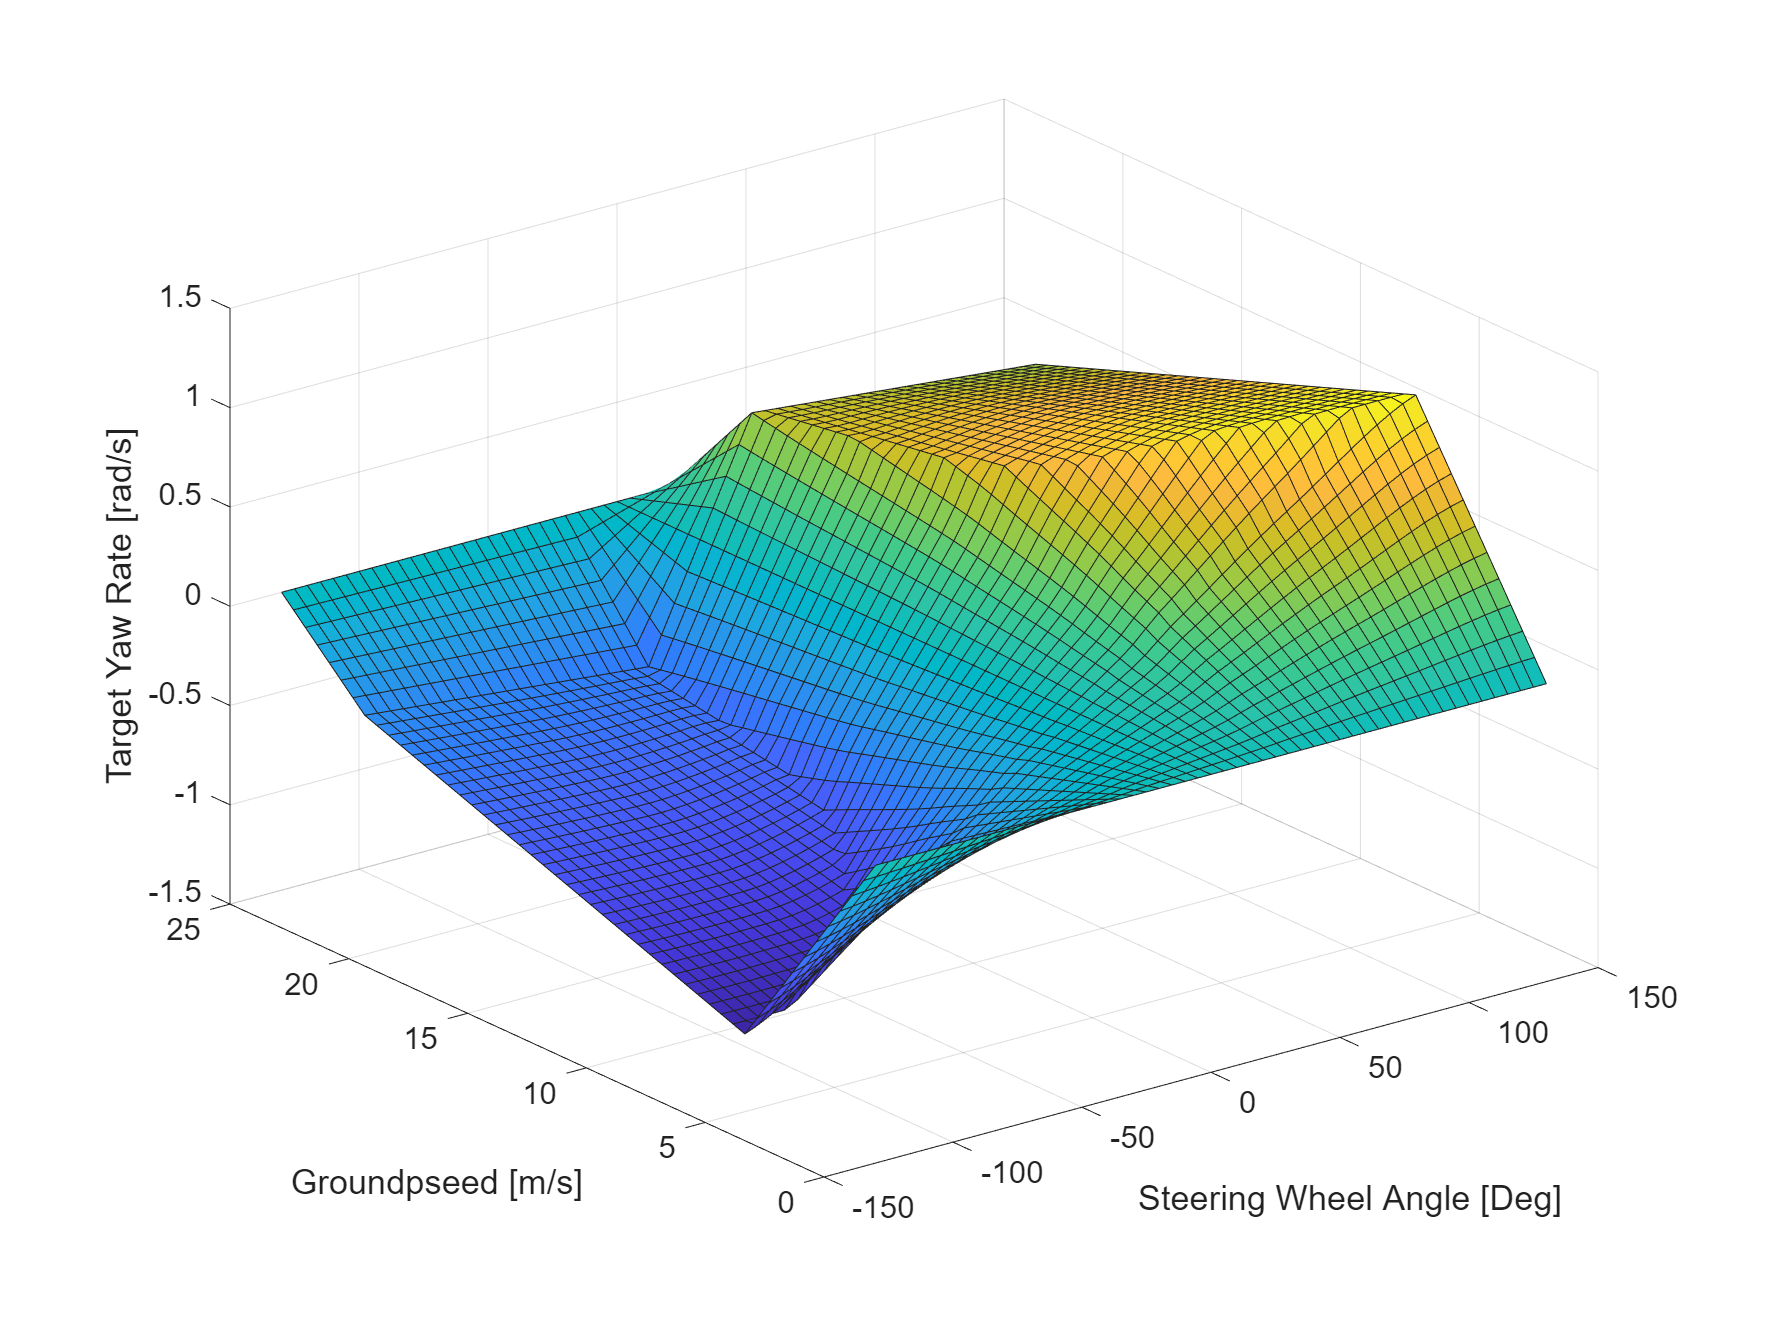
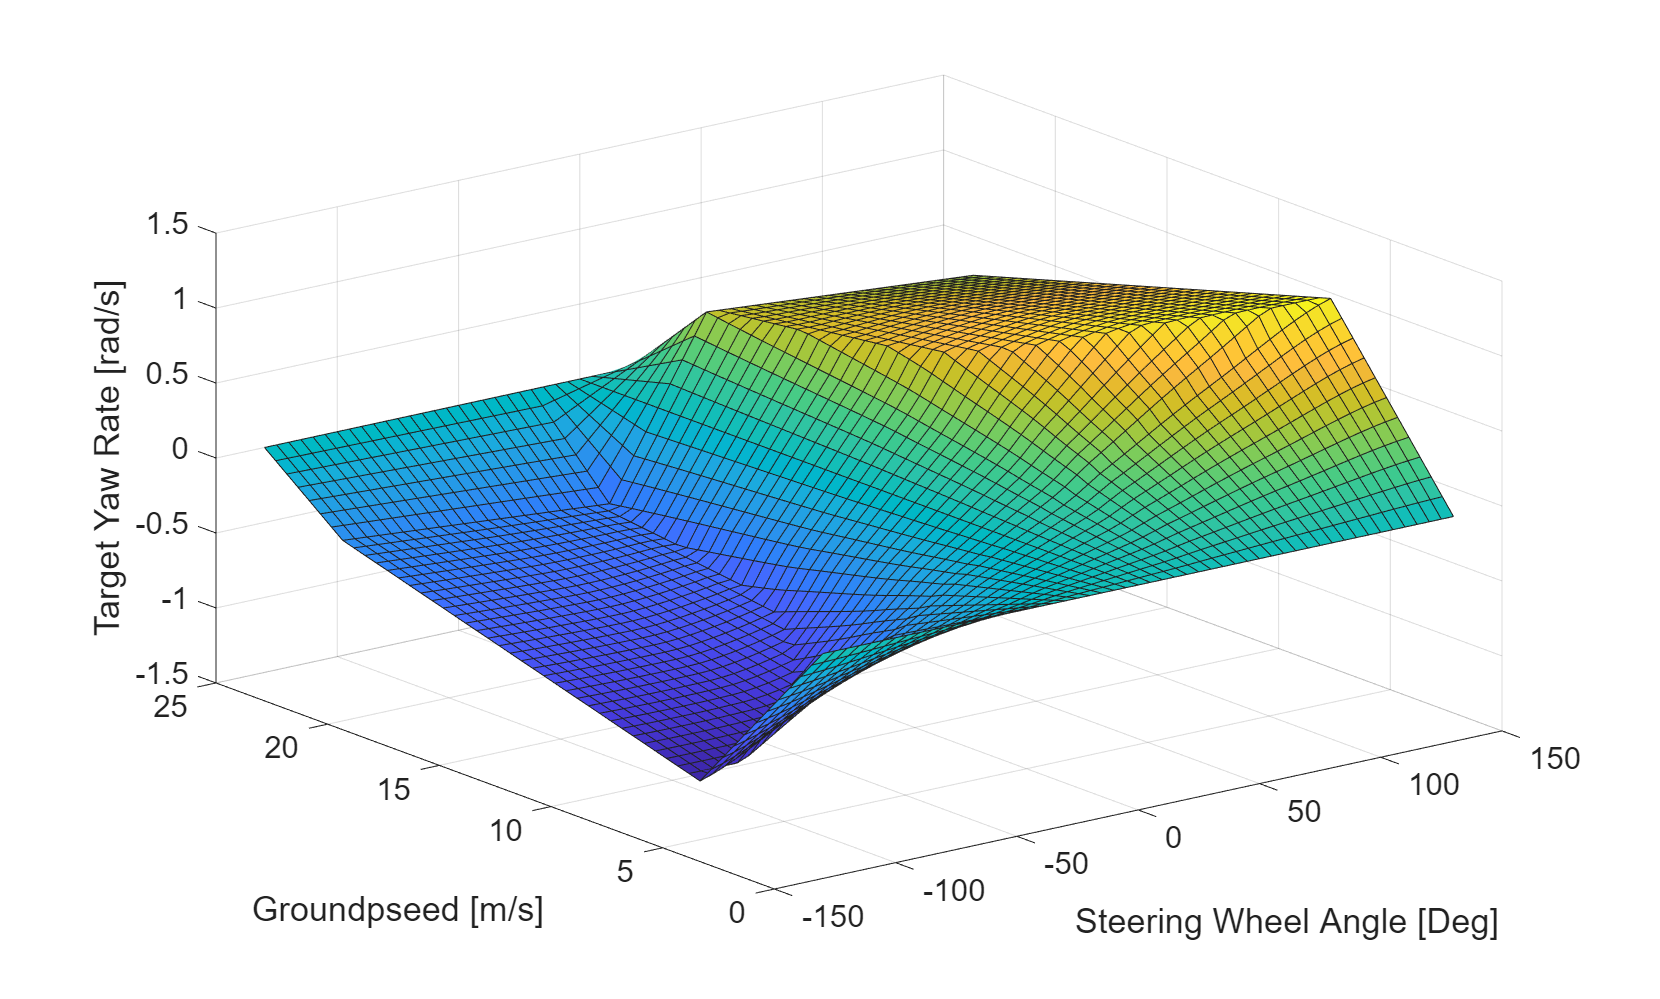
regenerate tables, make functions more resilient

diff --git a/S1_VCU/TVS_26/Controllers/pVCU_tables/generate_split_table.m b/S1_VCU/TVS_26/Controllers/pVCU_tables/generate_split_table.m
@@ -69,20 +69,6 @@ zlabel("yaw")
 grid
 
 %% contol region - secant lines in only y
-% secant from x to curve
-
-% secant from y deadband to curve
-function b = bfy_func(y, cpts, xfy, zfx)
-    pf = cpts(end,:);
-    b = zeros(size(y));
-    cond = y >= p4(2);
-    b1 = zfx(xfy(y(cond))) ./ xfy(y(cond));
-    b2 = interp1([0,p4(2)], [0, zfx(pf(1)) / xfy(pf(2))], y(~cond));
-    b(cond) = b1;
-    b(~cond) = b2;
-end
-bfy = @(yarr)( arrayfun(@(y) (bfy_func(y, cpts, xfy, zfx)), yarr) );
-
 maxsty =  @(yarr) ( arrayfun( @(y)(interp1([0, p4(2), p1(2)], [1, 1, 0], y)), yarr));
 function z = ctrl_func(x, y, cpts, xfy, yfx, zfx, maxsty)
     p1 = cpts(1,:);
@@ -93,6 +79,7 @@ function z = ctrl_func(x, y, cpts, xfy, yfx, zfx, maxsty)
         z = 0;
     elseif y >= yfx(x)
         z = interp1([p1(1), xfy(y)], [0, zfx(xfy(y))], x, "linear", "extrap");
+        z = NaN;
     else
         % z = interp1([p1(1), xfy(y)], [0, maxsty(y)], x, "linear", "extrap");
         z = zfx(x);
@@ -158,17 +145,30 @@ ylim([0, GS_max])
 zlim([0, 2])
 
 %% Combine
+% function that takes min of all three regions, and extrapolates outside of it
+function z = zcomb_func(x, y, ctrl, notr, cpts)
+    p1 = cpts(1, :);
+    pf = cpts(end, :);
+    x = min(x, pf(1));
+    z1 = ctrl(x, y);
+    z2 = notr(x, y);
+    z = min(z1, z2);
+end
+zcomb = @(x, y) (zcomb_func(x, y, ctrl, notr, cpts));
 figure(9)
 hold off
 surf(xf, yf, zavg_plot, FaceAlpha=.5)
 hold on
 surf(xf, yf, znotr, FaceAlpha=.5)
 figure(10)
-z_all = zeros([size(xf), 3]);
+z_all = zeros([size(xf), 2]);
 z_all(:,:,1) = zavg_plot;
-z_all(:,:,2) = NaN;
-z_all(:,:,3) = znotr;
-zplot_half = min(z_all, [], 3);
+z_all(:,:,2) = znotr;
+
+%  === real output calcs for table
+zplot_half = arrayfun(zcomb, xf, yf);
+% ===
+
 hold off
 surf(xf, yf, zplot_half)
 hold on

diff --git a/S1_VCU/TVS_26/Controllers/pVCU_tables/generate_yaw_table.m b/S1_VCU/TVS_26/Controllers/pVCU_tables/generate_yaw_table.m
@@ -131,7 +131,7 @@ zlim([0, 2])
 
 %% Loss of traction region
 function z = notr_func(x, y, hgsx, yfx, zfx, p1)
-    if p1(1) >= x
+    if x <= p1(1)
         z = p1(3);
     else
         z = interp1([p1(2), yfx(x)], [hgsx(x), zfx(x)], y, "linear", "extrap");